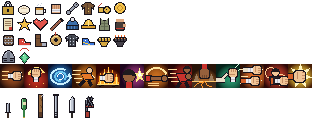
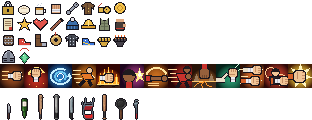
Use the owner's painted weapons; add frying pan, wrench and bat
The street weapons are now the project owner's paintings, keyed from their
green backdrop and reduced to hand-sized outlined pixel sprites with the
handle's end under the grip. Three new weapons with their own moves join
the area pools: frying pan (dazing, guard-breaking bonk), pipe wrench and
baseball bat.

Claude-Session: https://claude.ai/code/session_013k7rwq325dcb7HgG4RCeyW

Changed region(s): [[0.1731, 0.775, 0.4615, 1.0], [0.0, 0.775, 0.1442, 1.0]]

diff --git a/tools/assets/gen_ui.py b/tools/assets/gen_ui.py
@@ -6,6 +6,10 @@
 Writes client/assets/ui/icons.png and records each icon's region in the
 manifest's "ui" section. Items name their icon in items.json ("icon"); the
 validator checks every named icon exists and that this output is current.
+
+Weapons come from the owner's paintings in art/weapons/ (weapons.json) when
+there is one, reduced to hand-sized pixel sprites; otherwise from the code
+painters below.
 """
 
 from __future__ import annotations
@@ -15,6 +19,10 @@ import sys
 from pathlib import Path
 
 from PIL import Image, ImageDraw
+
+sys.path.insert(0, str(Path(__file__).parent))
+import kit_import  # noqa: E402
+from custom_import import outlined  # noqa: E402
 
 ROOT = Path(__file__).resolve().parents[2]
 OUT = ROOT / "client" / "assets" / "ui"
@@ -611,6 +619,34 @@ def weapon_chair(d: ImageDraw.ImageDraw) -> None:
     d.line((12, 17, 7, 9), fill=metal)
 
 
+WEAPON_ART = ROOT / "art" / "weapons"
+
+
+def painted_weapon(spec: dict) -> Image.Image:
+    """A painted weapon keyed from its backdrop and shrunk to `length` pixels
+    tall: hard-edged and outlined like the characters, its handle's end
+    centred under the grip."""
+    with Image.open(WEAPON_ART / "src" / spec["file"]) as opened:
+        source = opened.convert("RGB")
+    cut = kit_import.cut_out(source, spec).rotate(spec.get("turn", 0), expand=True)
+    length = int(spec["length"])
+    width = max(1, round(cut.width * length / cut.height))
+    small = cut.convert("RGBa").resize((width, length), Image.LANCZOS).convert("RGBA")
+    small.putalpha(small.getchannel("A").point(lambda v: 255 if v >= 128 else 0))
+    # The handle's end: the middle of the lowest opaque row.
+    alpha = small.getchannel("A").load()
+    bottom = [x for x in range(width) if alpha[x, length - 1]]
+    end = (bottom[0] + bottom[-1]) / 2 if bottom else width / 2
+    cell = Image.new("RGBA", WEAPON_SIZE, (0, 0, 0, 0))
+    cell.alpha_composite(small, (round(WEAPON_GRIP[0] - end), WEAPON_SIZE[1] - 1 - length))
+    return outlined(cell)
+
+
+def weapon_specs() -> dict:
+    path = WEAPON_ART / "weapons.json"
+    return json.loads(path.read_text())["weapons"] if path.exists() else {}
+
+
 WEAPONS = {
     "weapon_knife": weapon_knife,
     "weapon_bottle": weapon_bottle,
@@ -627,7 +663,9 @@ def render() -> tuple[Image.Image, dict]:
     columns = 8
     rows = (len(ICONS) + columns - 1) // columns
     top = rows * SIZE
-    width = max(columns * SIZE, len(SKILL_ICONS) * SKILL, len(WEAPONS) * WEAPON_SIZE[0])
+    painted = weapon_specs()
+    weapons = list(WEAPONS) + sorted(set(painted) - set(WEAPONS))
+    width = max(columns * SIZE, len(SKILL_ICONS) * SKILL, len(weapons) * WEAPON_SIZE[0])
     sheet = Image.new("RGBA", (width, top + SKILL + WEAPON_SIZE[1]), (0, 0, 0, 0))
     regions = {}
     for index, (name, painter) in enumerate(ICONS.items()):
@@ -641,9 +679,12 @@ def render() -> tuple[Image.Image, dict]:
         painter(ImageDraw.Draw(cell))
         sheet.alpha_composite(cell, (index * SKILL, top))
         regions[name] = [index * SKILL, top, SKILL, SKILL]
-    for index, (name, painter) in enumerate(WEAPONS.items()):
-        cell = Image.new("RGBA", WEAPON_SIZE, (0, 0, 0, 0))
-        painter(ImageDraw.Draw(cell))
+    for index, name in enumerate(weapons):
+        if name in painted:
+            cell = painted_weapon(painted[name])
+        else:
+            cell = Image.new("RGBA", WEAPON_SIZE, (0, 0, 0, 0))
+            WEAPONS[name](ImageDraw.Draw(cell))
         x = index * WEAPON_SIZE[0]
         sheet.alpha_composite(cell, (x, top + SKILL))
         regions[name] = [x, top + SKILL, *WEAPON_SIZE]

diff --git a/tools/assets/test_pipeline.py b/tools/assets/test_pipeline.py
@@ -256,6 +256,23 @@ class KitImportTest(unittest.TestCase):
                 self.assertTrue(80 <= p["x"] - half and p["x"] + half <= 1720, "clear of the exits")
 
 
+class PaintedWeaponTest(unittest.TestCase):
+    def test_painted_weapons_fit_the_cell_with_the_handle_in_the_fist(self) -> None:
+        import gen_ui
+
+        specs = gen_ui.weapon_specs()
+        self.assertTrue(specs, "the owner's weapons are listed")
+        for name, spec in specs.items():
+            cell = gen_ui.painted_weapon(spec)
+            self.assertEqual(cell.size, gen_ui.WEAPON_SIZE, name)
+            alpha = cell.getchannel("A")
+            box = alpha.getbbox()
+            self.assertIsNotNone(box, name)
+            self.assertGreater(box[1], 0, f"{name} is not cut off at the top")
+            grip = gen_ui.WEAPON_GRIP
+            self.assertEqual(alpha.getpixel(grip), 255, f"{name} has its handle at the grip")
+
+
 class RecordedSoundTest(unittest.TestCase):
     def test_recorded_sounds_are_cut_faded_and_below_full_scale(self) -> None:
         for sound_id, spec in import_sounds.recorded().items():

diff --git a/docs/ASSETS.md b/docs/ASSETS.md
@@ -104,11 +104,18 @@ the manifest's `ui` section. Each item in `items.json` names its `icon`. The
 validator regenerates the sheet in memory and fails when it is stale or an item
 names an unknown icon. See [UI.md](UI.md).
 
-The same sheet holds the street weapons (knife, bottle, plank, steel pipe, machete,
-folding chair) as sprites in 16x32 cells, drawn upright at the characters' scale with the grip at `weapon_grip` (8, 27),
-so the game can turn them about the hand; `weapons.json` names each one's `sprite`
-and the validator checks it exists. The chair is drawn upside down, held by the top
-of its back, the way one swings a folding chair.
+The same sheet holds the street weapons as sprites in 16x32 cells, upright at the
+characters' scale with the grip at `weapon_grip` (8, 27), so the game can turn them
+about the hand; `weapons.json` names each one's `sprite` and the validator checks it
+exists. The weapons are the project owner's paintings (knife, bottle, plank, steel
+pipe, machete, folding chair, frying pan, pipe wrench, baseball bat), listed in
+`art/weapons/weapons.json` with their sources in `art/weapons/src/` (scaled to at most
+480 px): keyed from the green backdrop like the street kit (`keep_green` for the green
+bottle), shrunk to `length` pixels tall with hard edges and the characters' outline,
+the handle's end centred under the grip (`turn` rotates a painting first). Weapons
+without a painting fall back to the code painters in `gen_ui.py`. The chair is held
+upside down by the top of its back, the way one swings a folding chair. Paint new
+weapons upright with the handle at the bottom.
 
 ## Fonts
 

diff --git a/GAME_DESIGN.md b/GAME_DESIGN.md
@@ -82,13 +82,15 @@ equipment) is stored per hero. Temporary combat state is never persisted.
   authority.
 
 - **[built] Street weapons** (`client/data/weapons.json`): knife, bottle, wooden
-  plank, steel pipe, machete and folding chair lie on the street (each area's
+  plank, steel pipe, machete, folding chair, frying pan, pipe wrench and baseball bat
+  lie on the street (each area's
   `weapons` block says how many and which, by weight; stronger ones only from a
   minimum area level). E picks up the weapon underfoot (dropping the one in hand), or
   puts the held one down. A weapon replaces Z/X with its own moves, always in the same hand: the knife
   stabs straight ahead, everything else swings from behind the head forward and down
   (knife: quick stabs and a lunge; pipe: long swings and a guard-breaking slam; chair: every swing
-  knocks down but slows you), wears out with each blow that lands (a bottle breaks
+  knocks down but slows you; frying pan: the heavy bonk dazes and breaks a guard;
+  wrench: quick and sturdy; bat: long reach and a heavy swing that sends them flying), wears out with each blow that lands (a bottle breaks
   after two) and is drawn in the fighter's hand, following every swing. **Anyone
   knocked down drops their weapon** and must pick it up again. Skills and items work
   as usual while armed. Weapons belong to their street: leaving an area puts the

diff --git a/CHANGELOG.md b/CHANGELOG.md
@@ -4,6 +4,16 @@ Format: [Keep a Changelog](https://keepachangelog.com/en/1.1.0/); versions follo
 
 ## [Unreleased]
 
+### Added — Painted street weapons, and a frying pan, wrench and bat
+- The street weapons now use the project owner's paintings, reduced to hand-sized
+  pixel sprites with an outline like the characters (in hand, on the street and on
+  the HUD badge). `gen_ui.py` keys them from their green backdrop and puts the
+  handle's end under the grip; `art/weapons/weapons.json` lists them.
+- Three new weapons: **frying pan** (from level 1; the heavy bonk dazes and breaks a
+  guard), **pipe wrench** (from level 2; quick, sturdy), **baseball bat** (from level
+  3; long reach, a heavy swing that sends them flying). Added to the area weapon
+  pools.
+
 ### Changed — HD-2D Bangkok streets
 - Every area is now built from a kit of painted pieces (Octopath-style HD-2D): shops
   (convenience store, noodle shop, massage shop, pharmacy, a shuttered shop),
